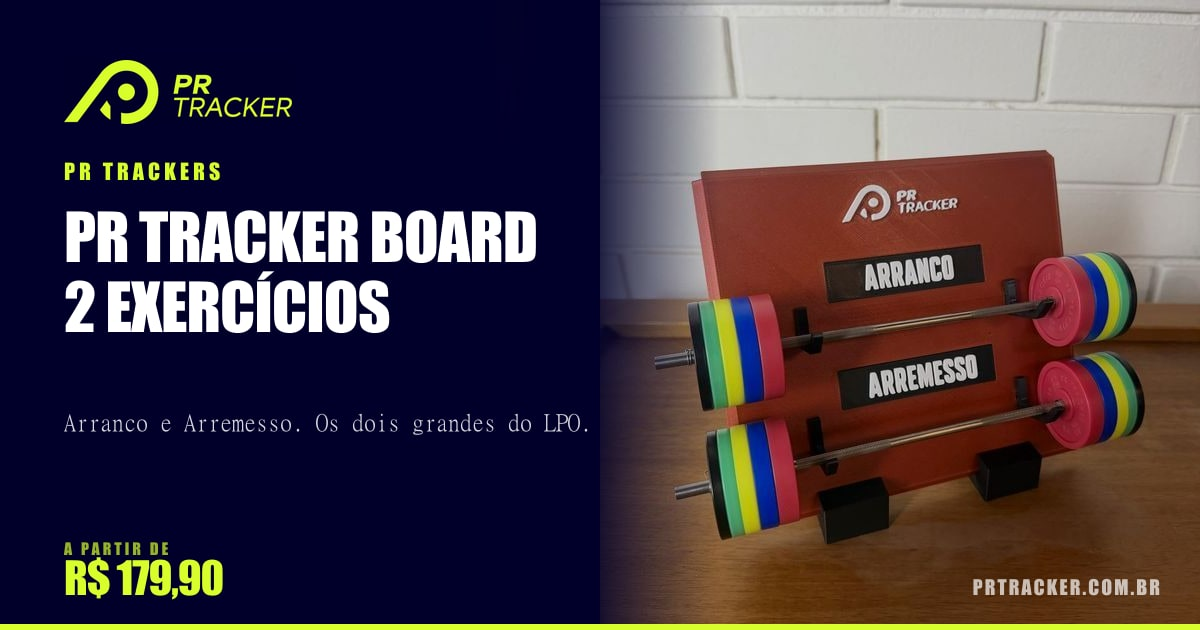
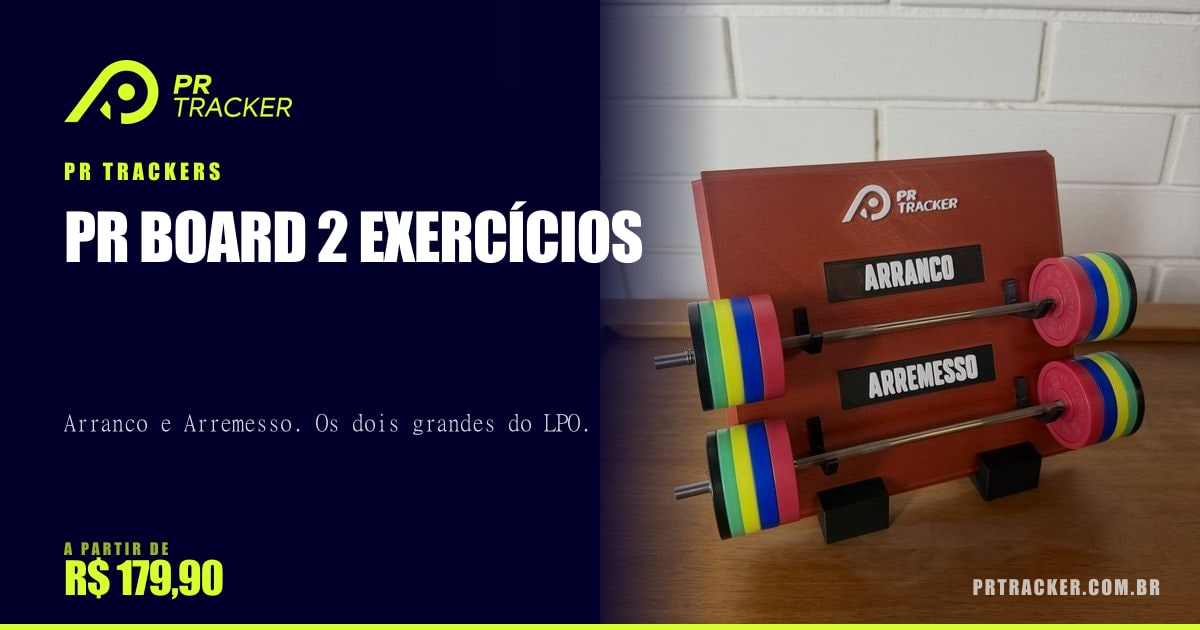
fix(launch): rename PR Boards + restore My PR Gym isometric primary
- Rename "PR Tracker Board — 2/3 Exercícios" → "PR Board 2/3 Exercícios"
  (no dash, no "Tracker"). ProductCard quebra em 2 linhas no card:
  "PR Board" + "N Exercícios".
- Atualiza Header, Footer, Bling SKU nome, JSON titles + long descriptions,
  brand bible (CLAUDE.md, BRIEF.md), OG images.
- Reverte swap do My PR Gym (PR #223): hero.jpg (isométrica) volta como
  primária; diagonal.jpg vai pra galeria. Mobile estava mostrando a
  diagonal close-up em vez do gym inteiro.
- Regenera hero.card.{avif,webp} com fit:inside (sem crop) — card 1:1
  com object-fit:contain mostra a peça inteira.

Changed region(s): [[0.0308, 0.3317, 0.555, 0.5429]]

diff --git a/src/lib/bling/sku-map.ts b/src/lib/bling/sku-map.ts
@@ -137,11 +137,11 @@ export function explodeLineToBling(item: ItemSku): SkuLine[] {
           return platesDesc ? `${bb.exercise} ${platesDesc}` : bb.exercise;
         })
         .join(" / ");
-      const exCountLabel = item.slug === "pr-tracker-board-3" ? "3 ex" : "2 ex";
+      const exCountLabel = item.slug === "pr-tracker-board-3" ? "3 Exercícios" : "2 Exercícios";
       return [
         {
           codigo: `${variant}-${colorKey}`,
-          nome: `PR Tracker Board ${exCountLabel} — ${colorOpt?.label ?? colorKey} (${exDesc})`,
+          nome: `PR Board ${exCountLabel} — ${colorOpt?.label ?? colorKey} (${exDesc})`,
           qty: item.qty,
           unitPrice: item.unit_price_cents / 100,
           ncm: NCM_KIT,

diff --git a/BRIEF.md b/BRIEF.md
@@ -78,8 +78,8 @@ Reprecificação **mai/2026** — aumentamos os kits para absorver o frete grát
 | 2 | Bench Press Set | pr-trackers | **R$ 189,00** | Sim | Banco de supino em alumínio |
 | 3 | Deadlift Set | pr-trackers | **R$ 149,00** | Sim | Base MDF + borracha |
 | 4 | My PR Set | pr-trackers | **R$ 159,00** | Sim + seletor de 20 exercícios | Base em acrílico |
-| 5 | **PR Tracker Board — 3 Exercícios** | pr-trackers | **R$ 199,90** | Sim — cor (Cobre/Preto/Rosa) + 3 exercícios + 3 barras | Placa PLA com 3 exercícios escolhidos (default Supino/Agachamento/LT). Inclui Arranco/Arremesso no dropdown (bilíngue). |
-| 6 | **PR Tracker Board — 2 Exercícios** | pr-trackers | **R$ 179,90** | Sim — cor (Cobre/Preto/Rosa) + 2 exercícios + 2 barras | Placa PLA com 2 exercícios escolhidos (default Arranco/Arremesso). |
+| 5 | **PR Board 3 Exercícios** | pr-trackers | **R$ 199,90** | Sim — cor (Cobre/Preto/Rosa) + 3 exercícios + 3 barras | Placa PLA com 3 exercícios escolhidos (default Supino/Agachamento/LT). Inclui Arranco/Arremesso no dropdown (bilíngue). |
+| 6 | **PR Board 2 Exercícios** | pr-trackers | **R$ 179,90** | Sim — cor (Cobre/Preto/Rosa) + 2 exercícios + 2 barras | Placa PLA com 2 exercícios escolhidos (default Arranco/Arremesso). |
 | 7 | **My PR Gym** *(EM BREVE)* | pr-trackers | **R$ 379,00** | Sim — **3 barras independentes** (Supino, Agachamento, Levantamento Terra) | Gym completo em miniatura. Compra bloqueada; botão "Notifique-me quando lançar" (email + telefone) — envia email pra `contato@prtracker.com.br` com assunto "Novo Interessado no MY PR Gym". |
 | 8 | **Meus RPs** (PR Runners) | pr-runners | **R$ 139,90** | Sim — 4 tempos hh:mm:ss (5/10/21/42 km) | Primeira peça da linha de corrida. Tempo opcional por distância; vazio = cadeado. Sem barras nem anilhas. |
 | 9 | Anilhas Avulsas | anilhas | **a partir de R$ 7,00** | Sim (modo anilhas-only) | Sem barra, só pares |
@@ -93,7 +93,7 @@ Reprecificação **mai/2026** — aumentamos os kits para absorver o frete grát
 - `anilhas` — pares avulsos
 - `camisetas` — vestuário
 
-### Cores dos PR Tracker Boards
+### Cores dos PR Boards
 
 | Cor | HEX | Default? |
 |-----|-----|:--------:|

diff --git a/CLAUDE.md b/CLAUDE.md
@@ -63,8 +63,8 @@ A partir de **mai/2026** o portfólio também inclui a linha **PR Runners** — 
 - **My PR Set** — "Seu LPO favorito está aqui!" (o mais personalizável — 20 exercícios)
 - **Power Rack Set** — "Para quem ama agachamento!"
 - **Bench Press Set** — "Supino que virou troféu!"
-- **PR Tracker Board — 3 Exercícios** — placa colorida (Cobre/Preto/Rosa) com 3 barras independentes configuráveis. Default: Supino + Agachamento + Levantamento Terra.
-- **PR Tracker Board — 2 Exercícios** — placa colorida (Cobre/Preto/Rosa) com 2 barras independentes. Default: Arranco + Arremesso (LPO).
+- **PR Board 3 Exercícios** — placa colorida (Cobre/Preto/Rosa) com 3 barras independentes configuráveis. Default: Supino + Agachamento + Levantamento Terra.
+- **PR Board 2 Exercícios** — placa colorida (Cobre/Preto/Rosa) com 2 barras independentes. Default: Arranco + Arremesso (LPO).
 - **My PR Gym** — EM BREVE. Gym completo em miniatura: power rack + bench + plataforma de deadlift + 3 barras (Supino, Agachamento, Levantamento Terra) configuráveis. Cadastro de interesse para aviso de lançamento.
 - **Anilhas Avulsas** — pares adicionais para atualizar qualquer set
 - **Camisetas** — linha de vestuário (Masculina e Feminina Baby Look)
@@ -88,7 +88,7 @@ A partir de **mai/2026** o portfólio também inclui a linha **PR Runners** — 
 | Bench Press Set | Alumínio |
 | Power Rack Set | Alumínio |
 | Deadlift Set | MDF & Borracha |
-| PR Tracker Board (2 e 3 ex) | PLA premium (impressão 3D) — Cobre / Preto / Rosa |
+| PR Board (2 e 3 Exercícios) | PLA premium (impressão 3D) — Cobre / Preto / Rosa |
 | Meus RPs (PR Runners) | PLA premium preto fosco (impressão 3D) |
 
 ### My PR Set — exercícios disponíveis
@@ -128,8 +128,8 @@ Linha **PR Runners** (desde mai/2026):
 | My PR Set | R$ 159,00 |
 | Power Rack Set | R$ 169,00 |
 | Bench Press Set | R$ 189,00 |
-| PR Tracker Board — 2 Exercícios | R$ 179,90 |
-| PR Tracker Board — 3 Exercícios | R$ 199,90 |
+| PR Board 2 Exercícios | R$ 179,90 |
+| PR Board 3 Exercícios | R$ 199,90 |
 | **My PR Gym** (EM BREVE) | R$ 379,00 |
 
 ### Linha PR Runners (preço fechado)
